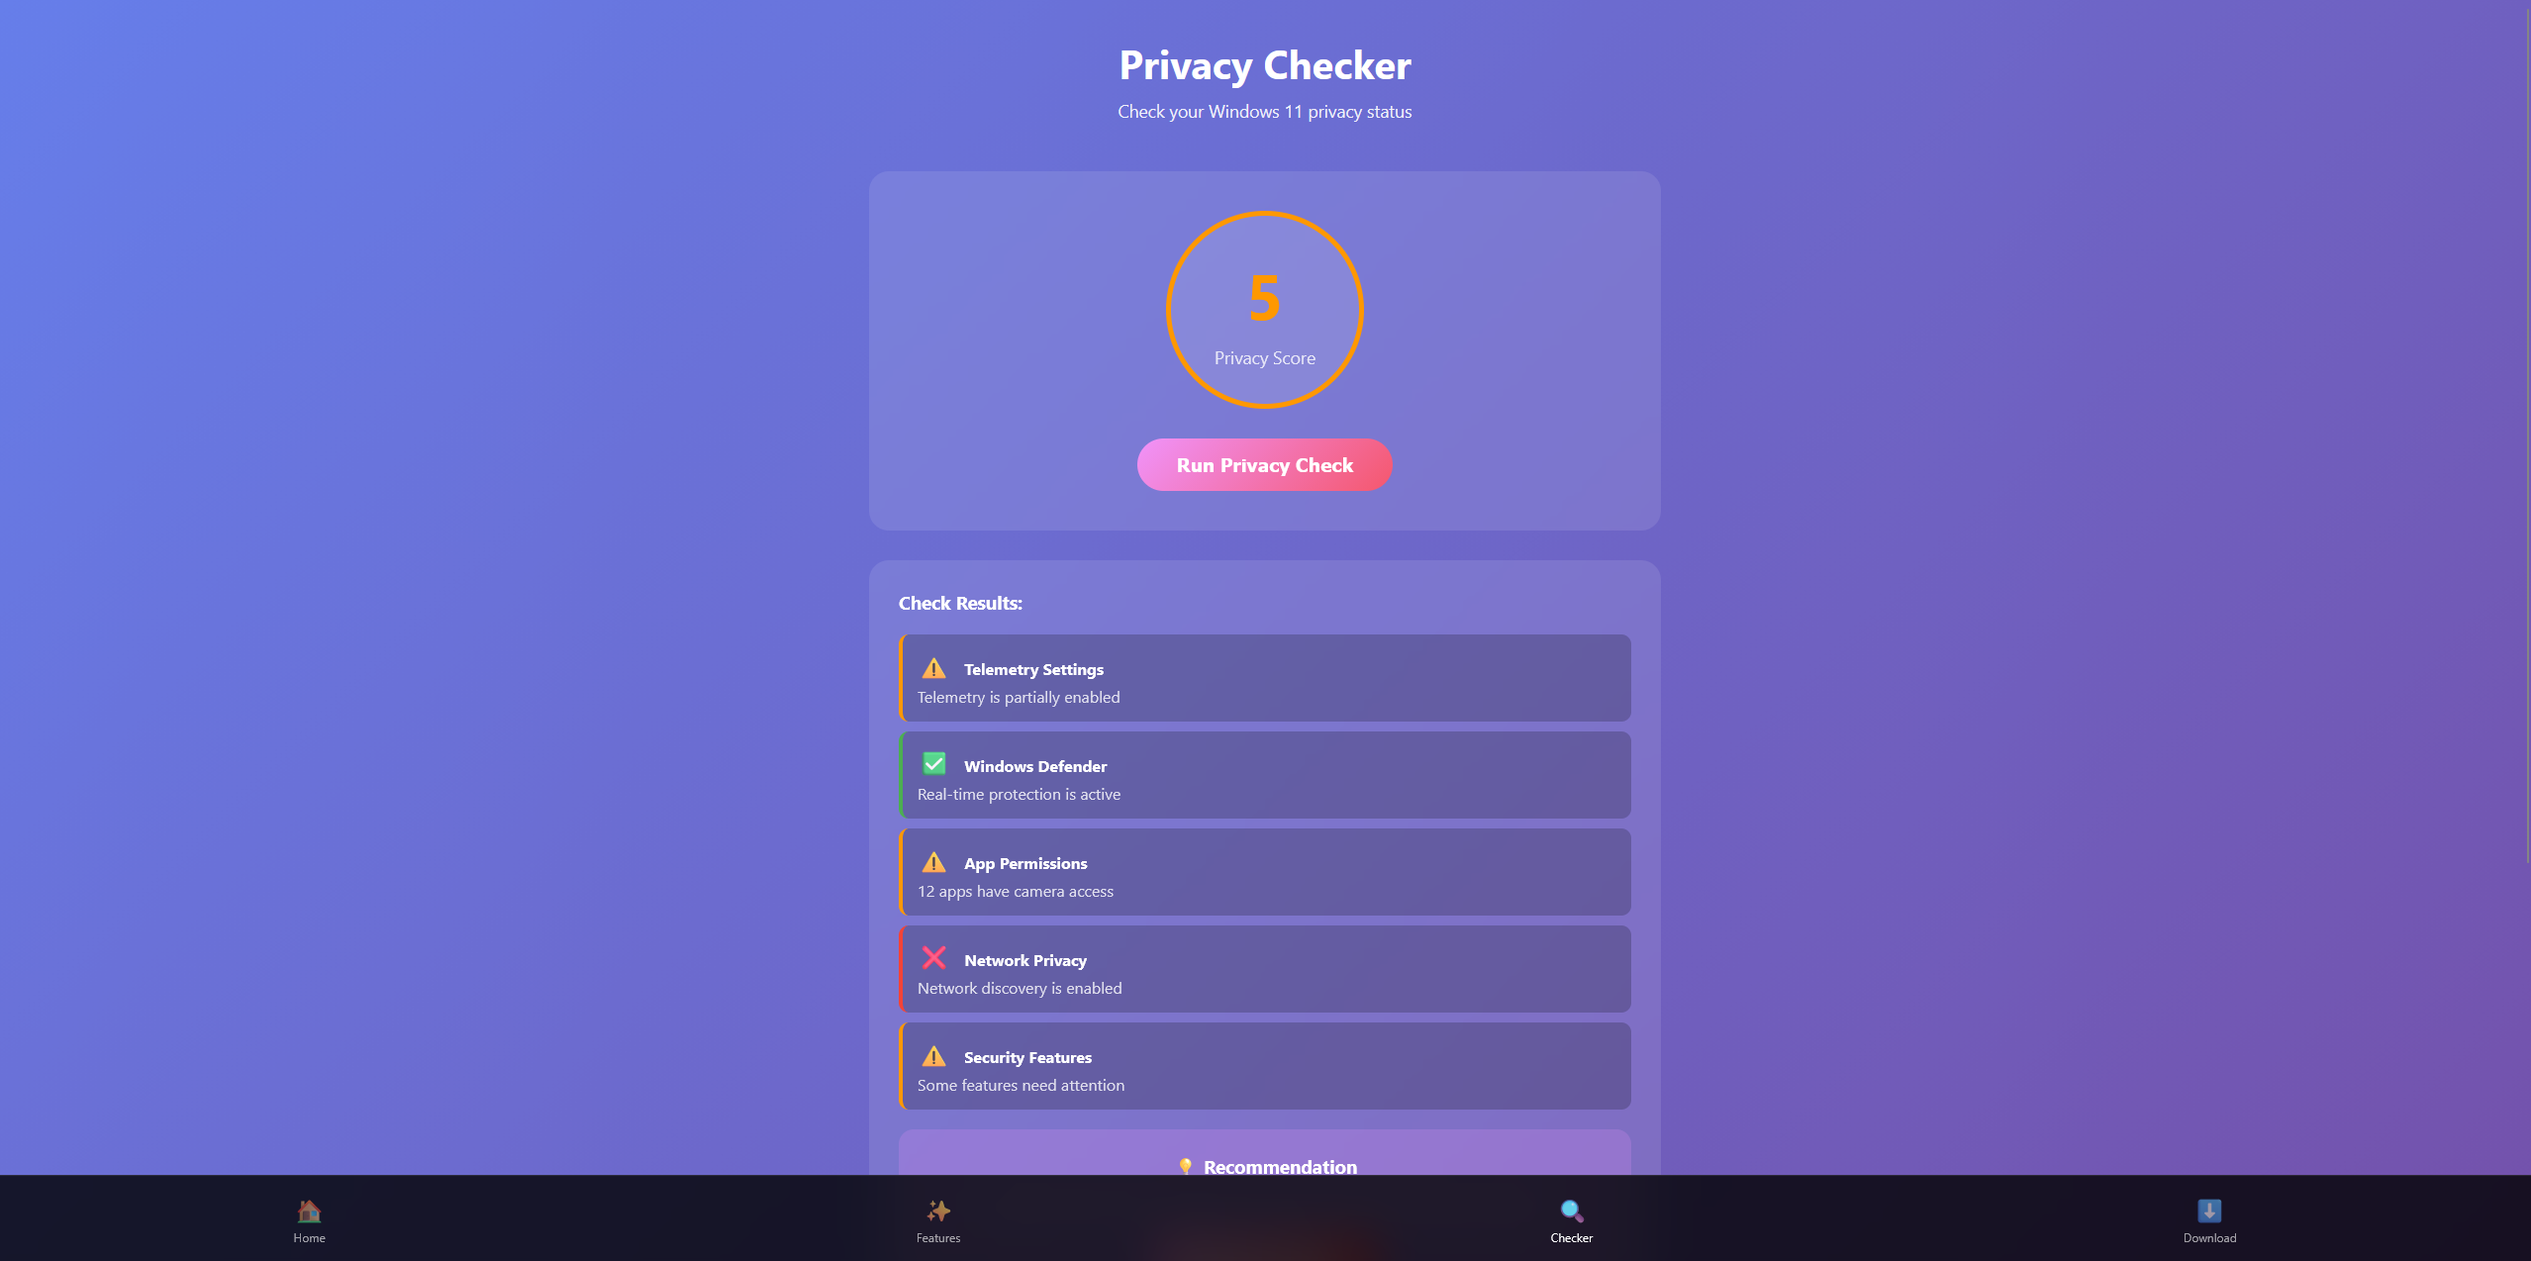
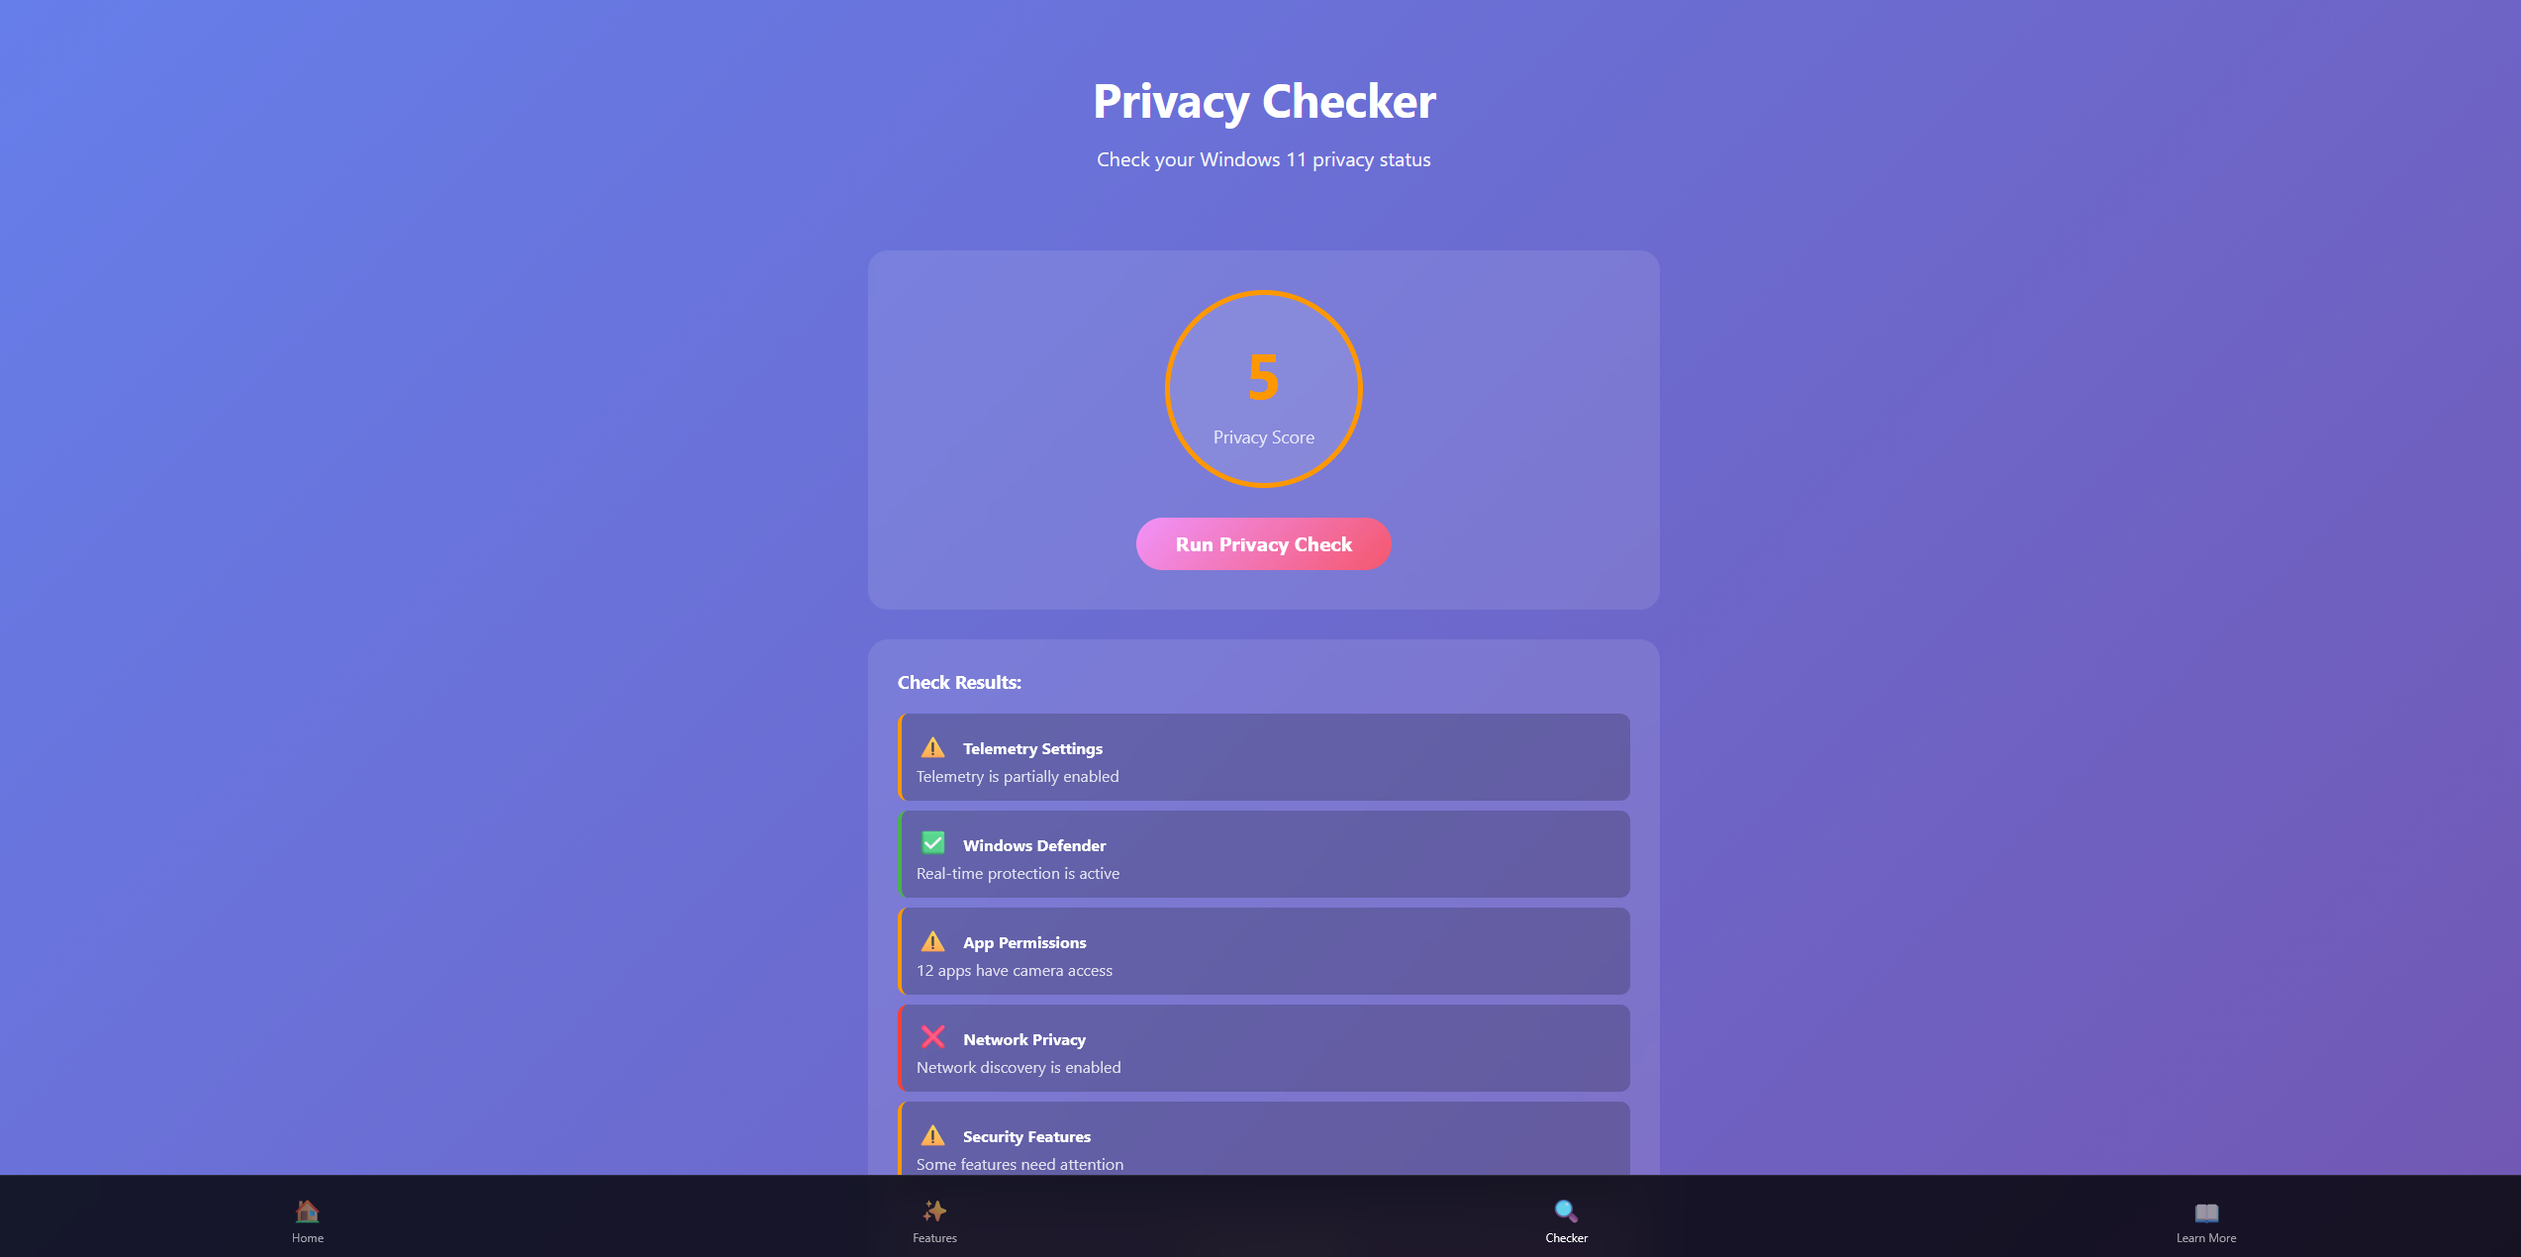
Microsoft Store compliance fixes + UI improvements
- Changed 'Get App' to 'Learn More' for MS Store compliance
- Removed all pricing mentions (PRO, €24.99, Q1 2026)
- Changed 'Download on GitHub' to 'View on GitHub'
- Added interactive feature checklist to Checker
- Updated all screenshots (learnmore.png replaces download.png)
- Fixed non-existent GitHub discussions links to Issues
- Removed forms.gle and noid-privacy.com external links
- 100% compliant with MS Store policies 10.1.4.4, 10.8.2, 10.1.5

diff --git a/index.html b/index.html
@@ -56,11 +56,9 @@
     
     <!-- Preconnect for external resources -->
     <link rel="preconnect" href="https://github.com">
-    <link rel="preconnect" href="https://forms.gle">
     
     <!-- DNS Prefetch -->
     <link rel="dns-prefetch" href="https://github.com">
-    <link rel="dns-prefetch" href="https://forms.gle">
     
     <!-- Stylesheet -->
     <link rel="stylesheet" href="styles.css">
@@ -90,7 +88,7 @@
         "https://nexusone23.github.io/noid-companion/home.png",
         "https://nexusone23.github.io/noid-companion/features.png",
         "https://nexusone23.github.io/noid-companion/checker.png",
-        "https://nexusone23.github.io/noid-companion/download.png"
+        "https://nexusone23.github.io/noid-companion/learnmore.png"
       ],
       "softwareVersion": "1.0.0",
       "author": {
@@ -108,7 +106,7 @@
         "Interactive Privacy Tutorial",
         "Feature Showcase with Statistics",
         "Privacy Score Checker",
-        "Direct Download Links",
+        "Direct GitHub Access",
         "478 Registry Keys Hardening",
         "19 ASR Rules Implementation",
         "107k Domains Blocked",
@@ -170,8 +168,8 @@
                 <span class="nav-label">Checker</span>
             </div>
             <div class="nav-item" data-page="download">
-                <span class="nav-icon">⬇</span>
-                <span class="nav-label">Download</span>
+                <span class="nav-icon">📖</span>
+                <span class="nav-label">Learn More</span>
             </div>
         </nav>
 
@@ -183,7 +181,7 @@
                     <div class="logo">🛡</div>
                     <h1>NoID Privacy</h1>
                     <p class="subtitle">Enterprise-Grade Windows 11<br>Security & Privacy Hardening</p>
-                    <div class="badge">Coming Q1 2026</div>
+                    <div class="badge">Free & Open Source</div>
                 </div>
 
                 <div class="info-cards">
@@ -208,14 +206,14 @@
                     <h2>Two Versions Available</h2>
                     <div class="version-cards">
                         <div class="version-card">
-                            <h3>🆓 Free Shell Version</h3>
+                            <h3>🆓 Shell Version</h3>
                             <p>Open Source PowerShell scripts</p>
                             <p class="version-status">Available Now</p>
                         </div>
                         <div class="version-card featured">
-                            <h3>💎 PRO GUI Version</h3>
+                            <h3>💎 GUI Version</h3>
                             <p>Beautiful Windows 11 app</p>
-                            <p class="version-status">Coming Q1 2026</p>
+                            <p class="version-status">In Development</p>
                         </div>
                     </div>
                 </div>
@@ -290,9 +288,9 @@
                                 <li>✅ 1-Click Installation</li>
                                 <li>✅ Visual Dashboard</li>
                                 <li>✅ Auto-Update System</li>
-                                <li>✅ Premium Support</li>
+                                <li>✅ Community Support</li>
                             </ul>
-                            <p>Expected Launch: Q1 2026</p>
+                            <p>Currently in development</p>
                         </div>
                     </div>
 
@@ -326,8 +324,8 @@
                         
                         <div class="recommendation">
                             <h3>💡 Recommendation</h3>
-                            <p>Download NoID Privacy to improve your privacy score and secure your system!</p>
-                            <button class="cta-btn" onclick="showPage('download')">Get NoID Privacy →</button>
+                            <p>Use NoID Privacy to improve your privacy score and secure your system!</p>
+                            <button class="cta-btn" onclick="showPage('download')">Learn More →</button>
                         </div>
                     </div>
 
@@ -342,14 +340,50 @@
                         </ul>
                         <p class="note">Note: This is a basic check. Full analysis requires NoID Privacy tool.</p>
                     </div>
+
+                    <div class="feature-comparison" style="margin-top: 30px; padding: 20px; background: rgba(255,255,255,0.1); border-radius: 15px;">
+                        <h3>✅ Interactive Feature Checklist</h3>
+                        <p style="opacity: 0.9; margin-bottom: 15px;">Check which security features you want to enable:</p>
+                        <div class="feature-checklist">
+                            <label class="feature-item">
+                                <input type="checkbox" id="check-telemetry">
+                                <span>Disable Telemetry (478 registry keys)</span>
+                            </label>
+                            <label class="feature-item">
+                                <input type="checkbox" id="check-asr">
+                                <span>Enable ASR Rules (19 attack surface rules)</span>
+                            </label>
+                            <label class="feature-item">
+                                <input type="checkbox" id="check-hosts">
+                                <span>Block Tracking Domains (~107k domains)</span>
+                            </label>
+                            <label class="feature-item">
+                                <input type="checkbox" id="check-defender">
+                                <span>Harden Windows Defender (11 layers)</span>
+                            </label>
+                            <label class="feature-item">
+                                <input type="checkbox" id="check-firewall">
+                                <span>Configure Firewall (strict inbound)</span>
+                            </label>
+                            <label class="feature-item">
+                                <input type="checkbox" id="check-credentials">
+                                <span>Credential Guard + LSA Protection</span>
+                            </label>
+                        </div>
+                        <div class="comparison-result" id="comparisonResult" style="margin-top: 15px; padding: 15px; background: rgba(0,0,0,0.2); border-radius: 10px; display: none;">
+                            <p style="font-weight: 600;">Your Selection:</p>
+                            <p id="selectedFeatures"></p>
+                            <button class="check-btn" onclick="showPage('download')" style="margin-top: 10px;">Learn More →</button>
+                        </div>
+                    </div>
                 </div>
             </div>
 
-            <!-- Download Page -->
+            <!-- Learn More Page -->
             <div class="page" id="download">
                 <div class="page-header">
-                    <h1>Get NoID Privacy</h1>
-                    <p>Choose your version</p>
+                    <h1>Learn More</h1>
+                    <p>About NoID Privacy</p>
                 </div>
 
                 <div class="download-options">
@@ -366,37 +400,37 @@
                         <div class="download-status available">✅ Available Now</div>
                         <a href="https://github.com/NexusOne23/noid-privacy" target="_blank" rel="noopener noreferrer" class="download-btn github">
                             <span class="btn-icon">⭐</span>
-                            <span class="btn-text">Download on GitHub</span>
+                            <span class="btn-text">View on GitHub</span>
                             <span class="btn-arrow">→</span>
                         </a>
                     </div>
 
                     <div class="download-card featured">
                         <div class="download-icon">💎</div>
-                        <h2>PRO GUI Version</h2>
-                        <p class="download-desc">Beautiful Windows 11 app with premium features</p>
+                        <h2>GUI Version</h2>
+                        <p class="download-desc">Beautiful Windows 11 app with advanced features</p>
                         <ul class="download-features">
                             <li>✅ 1-Click installation</li>
                             <li>✅ Visual dashboard</li>
                             <li>✅ Auto-updates</li>
-                            <li>✅ Premium support</li>
+                            <li>✅ Community support</li>
                         </ul>
-                        <div class="download-status coming">🚀 Coming Q1 2026</div>
-                        <a href="https://forms.gle/3kcQMtNxPjpqKKU6A" target="_blank" rel="noopener noreferrer" class="download-btn primary">
-                            <span class="btn-icon">🔔</span>
-                            <span class="btn-text">Join Waitlist</span>
+                        <div class="download-status coming">🚧 In Development</div>
+                        <a href="https://github.com/NexusOne23/noid-privacy" target="_blank" rel="noopener noreferrer" class="download-btn primary">
+                            <span class="btn-icon">⭐</span>
+                            <span class="btn-text">Star on GitHub</span>
                             <span class="btn-arrow">→</span>
                         </a>
-                        <p class="early-bird">🎁 Early Bird: €24.99 (Save €10!)</p>
+                        <p class="early-bird">📢 Follow the project for updates</p>
                     </div>
                 </div>
 
                 <div class="additional-links">
                     <h3>More Information</h3>
                     <div class="link-grid">
-                        <a href="https://noid-privacy.com" target="_blank" rel="noopener noreferrer" class="link-card">
-                            <span class="link-icon">🌐</span>
-                            <span class="link-text">Official Website</span>
+                        <a href="https://github.com/NexusOne23/noid-privacy/issues" target="_blank" rel="noopener noreferrer" class="link-card">
+                            <span class="link-icon">💬</span>
+                            <span class="link-text">Issues & Support</span>
                         </a>
                         <a href="https://github.com/NexusOne23/noid-privacy/blob/main/SCREENSHOTS.md" target="_blank" rel="noopener noreferrer" class="link-card">
                             <span class="link-icon">📸</span>

diff --git a/app.js b/app.js
@@ -197,3 +197,25 @@ if ('serviceWorker' in navigator) {
 
 // Make showPage available globally
 window.showPage = showPage;
+
+// Interactive Feature Checklist
+const featureCheckboxes = document.querySelectorAll('.feature-checklist input[type="checkbox"]');
+const comparisonResult = document.getElementById('comparisonResult');
+const selectedFeatures = document.getElementById('selectedFeatures');
+
+featureCheckboxes.forEach(checkbox => {
+    checkbox.addEventListener('change', updateFeatureComparison);
+});
+
+function updateFeatureComparison() {
+    const selected = Array.from(featureCheckboxes)
+        .filter(cb => cb.checked)
+        .map(cb => cb.nextElementSibling.textContent);
+    
+    if (selected.length > 0) {
+        selectedFeatures.textContent = `You selected ${selected.length} out of 6 features. NoID Privacy will help you implement all of these!`;
+        comparisonResult.style.display = 'block';
+    } else {
+        comparisonResult.style.display = 'none';
+    }
+}

diff --git a/styles.css b/styles.css
@@ -988,3 +988,53 @@ body {
         padding: 8px 10px;
     }
 }
+
+/* Interactive Feature Checklist */
+.feature-checklist {
+    display: flex;
+    flex-direction: column;
+    gap: 12px;
+}
+
+.feature-item {
+    display: flex;
+    align-items: center;
+    gap: 12px;
+    padding: 15px;
+    background: rgba(255, 255, 255, 0.05);
+    border-radius: 10px;
+    cursor: pointer;
+    transition: all 0.3s ease;
+}
+
+.feature-item:hover {
+    background: rgba(255, 255, 255, 0.1);
+    transform: translateX(5px);
+}
+
+.feature-item input[type="checkbox"] {
+    width: 20px;
+    height: 20px;
+    cursor: pointer;
+    accent-color: #667eea;
+}
+
+.feature-item span {
+    flex: 1;
+    font-size: 1em;
+}
+
+.comparison-result {
+    animation: slideIn 0.3s ease-out;
+}
+
+@keyframes slideIn {
+    from {
+        opacity: 0;
+        transform: translateY(-10px);
+    }
+    to {
+        opacity: 1;
+        transform: translateY(0);
+    }
+}

diff --git a/README.md b/README.md
@@ -13,8 +13,8 @@ A Progressive Web App (PWA) companion for [NoID Privacy](https://github.com/Nexu
 
 - 📱 **Interactive Tutorial** - Learn about Windows 11 privacy hardening
 - ✨ **Feature Showcase** - Explore NoID Privacy capabilities
-- 🔍 **Privacy Checker** - Basic privacy score assessment
-- ⬇ **Download Links** - Direct access to free shell and PRO GUI versions
+- 🔍 **Privacy Checker** - Basic privacy score assessment with interactive checklist
+- 📖 **Learn More** - Information about free shell and GUI versions (in development)
 
 ## 🚀 Live Demo
 
@@ -34,7 +34,7 @@ NoID Privacy is a comprehensive Windows 11 security hardening solution that impl
 ### Versions
 
 - **Free Shell** - Open Source PowerShell scripts (available now)
-- **PRO GUI** - Beautiful Windows 11 app (coming Q1 2026)
+- **GUI Version** - Beautiful Windows 11 app (in development)
 
 Learn more: [github.com/NexusOne23/noid-privacy](https://github.com/NexusOne23/noid-privacy)
 
@@ -50,8 +50,8 @@ Learn more: [github.com/NexusOne23/noid-privacy](https://github.com/NexusOne23/n
 
 - **Home** - Hero section with feature overview
 - **Features** - Interactive slider showcasing capabilities
-- **Checker** - Privacy score calculator
-- **Download** - Links to free shell and PRO GUI versions
+- **Checker** - Privacy score calculator with interactive feature checklist
+- **Learn More** - Information about free shell and GUI versions
 
 ## 🚀 Development
 
@@ -87,8 +87,8 @@ Visit `http://localhost:8000` in your browser.
 
 - **Main Project**: [NoID Privacy](https://github.com/NexusOne23/noid-privacy)
 - **Live Demo**: [noid-companion](https://nexusone23.github.io/noid-companion/)
-- **PRO Waitlist**: [Join here](https://forms.gle/3kcQMtNxPjpqKKU6A)
-- **Website**: [noid-privacy.com](https://noid-privacy.com)
+- **Issues & Support**: [GitHub Issues](https://github.com/NexusOne23/noid-privacy/issues)
+- **Documentation**: [README](https://github.com/NexusOne23/noid-privacy#readme)
 
 ## 📄 License
 
